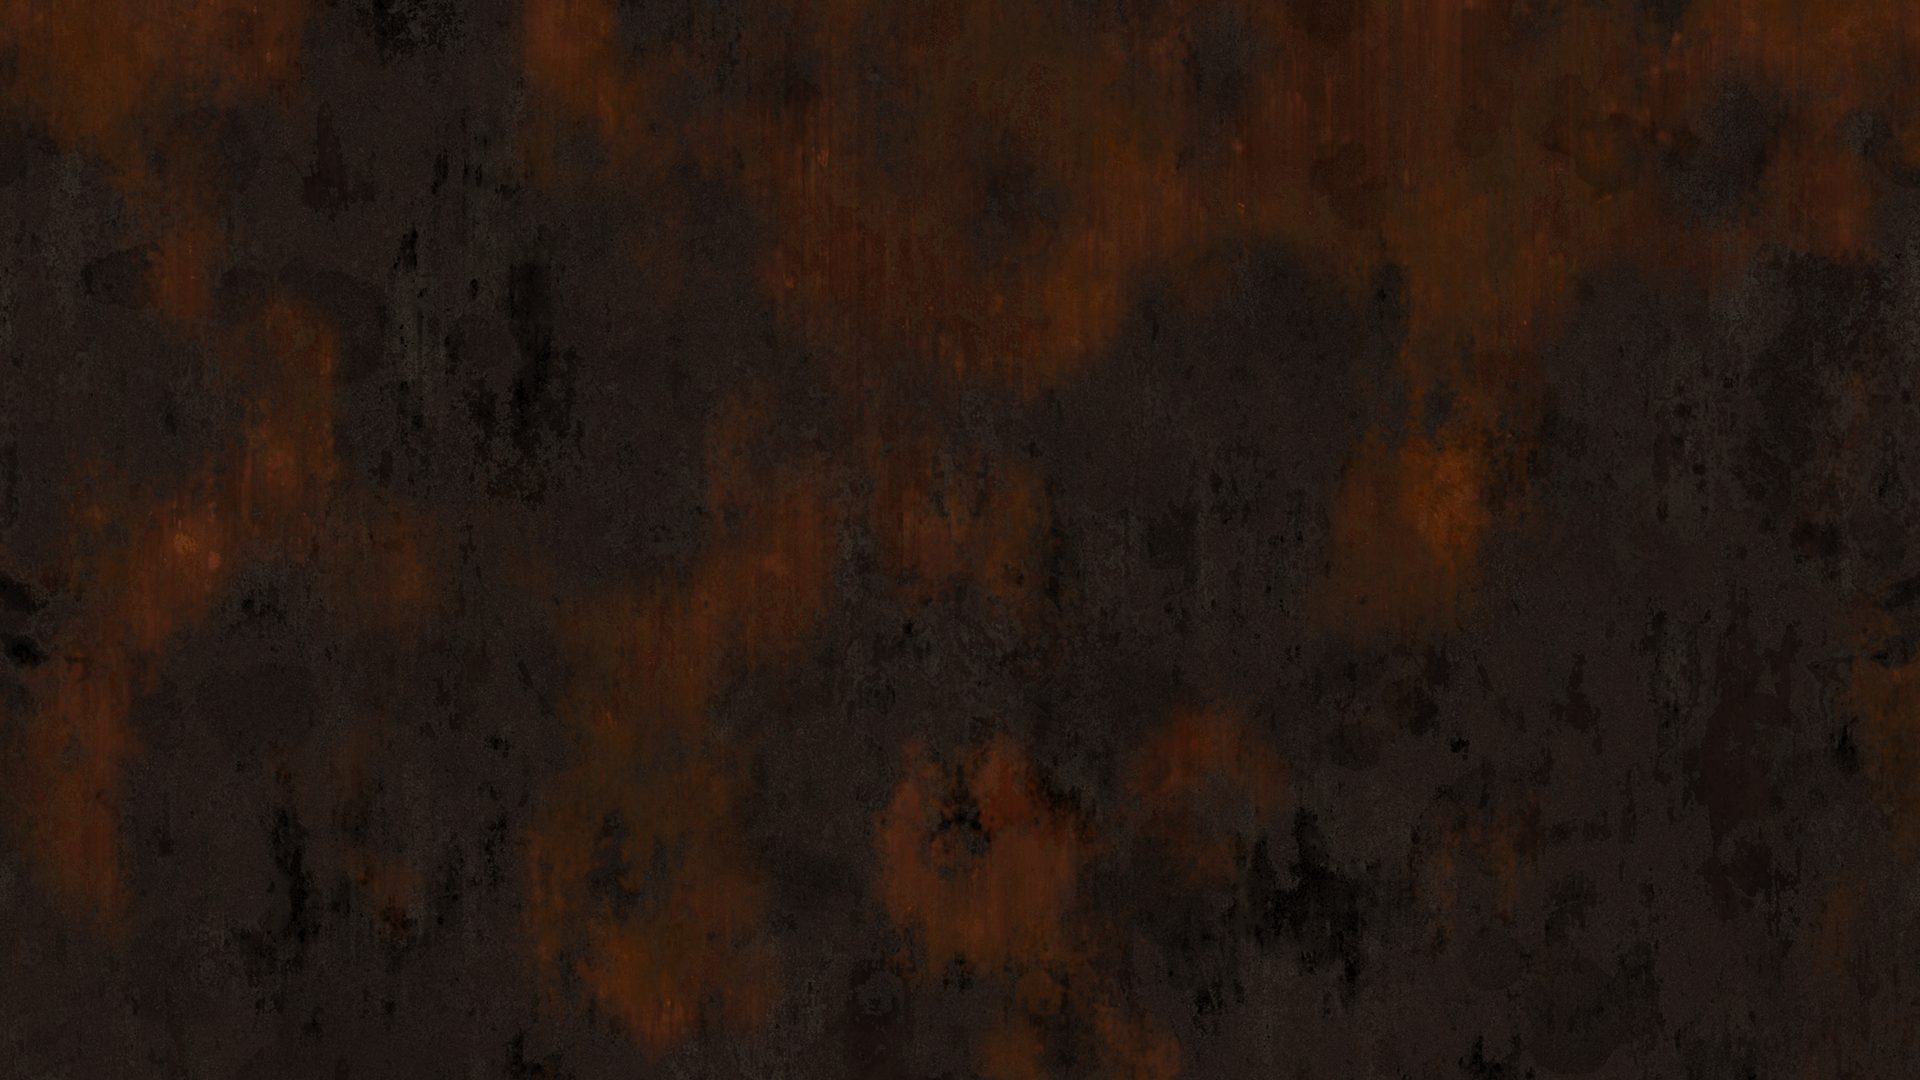
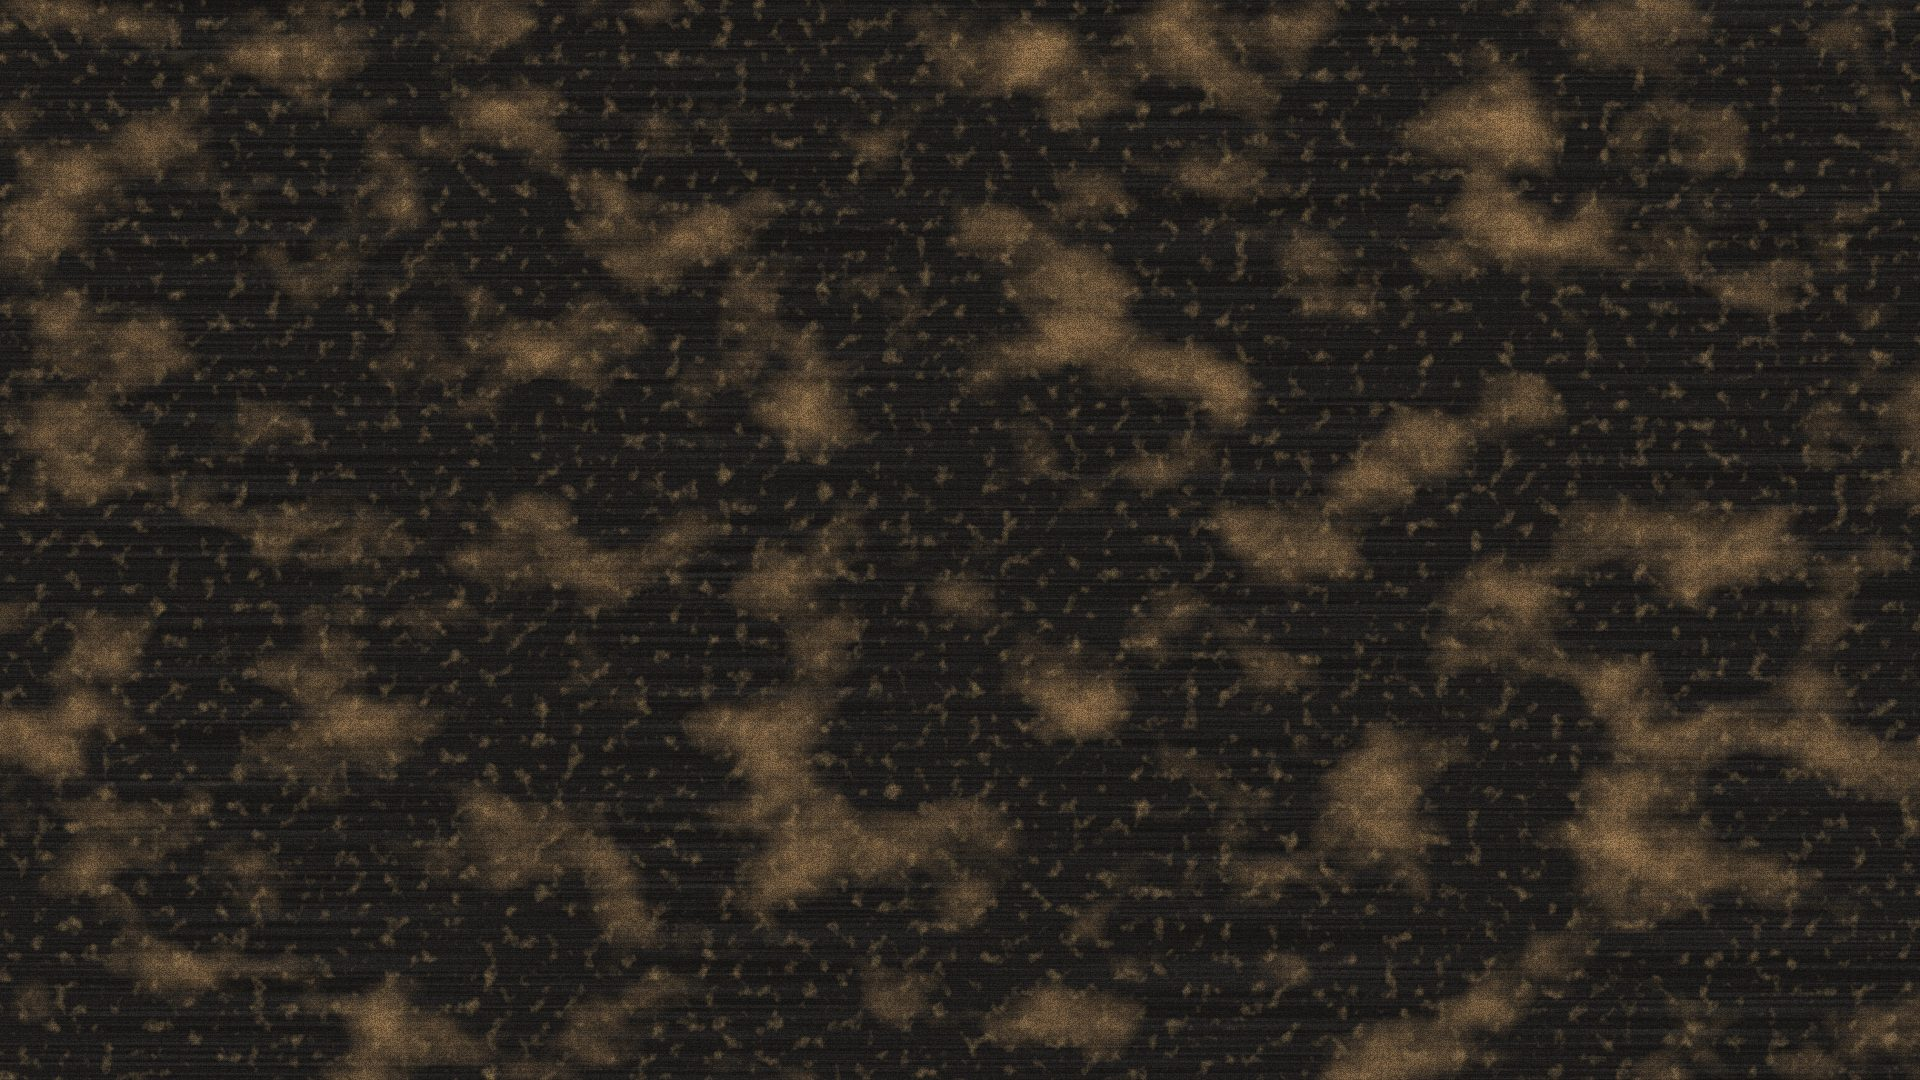
Warm noise rust background (baked), pipes connecting the clocks
Pipes are laid out from the clocks' live positions and redrawn on resize.

diff --git a/public/app.js b/public/app.js
@@ -150,7 +150,119 @@ function render() {
     return { el, row, set: clock(el), state: (now) => trackState(t, now) };
   });
   counters = [final, ...rows];
+  // pipes follow the clocks: redraw when anything resizes or fonts settle
+  pipeWatch.disconnect();
+  pipeWatch.observe(document.body);
+  counters.forEach((c) => pipeWatch.observe(c.el));
+  document.fonts.ready.then(queuePipes);
 }
+
+/* ---------- Pipes ----------
+   Laid out from the clocks' real positions: a trunk down each outer side
+   and one down the middle, a branch into every clock, a few runs leaving
+   the screen, with flanges, wall brackets and valve wheels. */
+
+const pipesSvg = $("#pipes");
+const PIPE = [["#120a04", 1], ["#4a2f17", 0.82], ["#7a5229", 0.52], ["#b88a52", 0.16]]; // edge -> highlight
+
+const pipe = (pts, w) => {
+  const d = "M" + pts.map((p) => p.join(" ")).join("L");
+  return PIPE.map(([c, k]) => `<path d="${d}" stroke="${c}" stroke-width="${w * k}"/>`).join("");
+};
+const bolt = (x, y, r) => `<circle cx="${x}" cy="${y}" r="${r}" fill="url(#pp-bolt)"/>`;
+// collar across the pipe; vertical=true for a pipe running up/down
+const flange = (x, y, w, vertical) => {
+  const a = w * 1.55, b = w * 0.42;
+  const [rw, rh] = vertical ? [a, b] : [b, a];
+  return `<rect x="${x - rw / 2}" y="${y - rh / 2}" width="${rw}" height="${rh}" rx="${w * 0.08}" fill="url(#pp-brass)" stroke="#140b04"/>`;
+};
+const tee = (x, y, w) =>
+  `<rect x="${x - w * 0.8}" y="${y - w * 0.8}" width="${w * 1.6}" height="${w * 1.6}" rx="${w * 0.25}" fill="url(#pp-brass)" stroke="#140b04"/>` +
+  bolt(x, y, w * 0.18);
+const bracket = (x, y, w) =>
+  `<rect x="${x - w * 1.25}" y="${y - w * 0.22}" width="${w * 2.5}" height="${w * 0.44}" fill="#24211f" stroke="#000"/>` +
+  bolt(x - w * 1.02, y, w * 0.13) + bolt(x + w * 1.02, y, w * 0.13);
+const valve = (x, y, w) => {
+  const r = w * 1.5;
+  const spokes = [0, 60, 120].map((a) => {
+    const c = Math.cos((a * Math.PI) / 180) * r, s = Math.sin((a * Math.PI) / 180) * r;
+    return `<line x1="${x - c}" y1="${y - s}" x2="${x + c}" y2="${y + s}"/>`;
+  }).join("");
+  return `<g stroke="#5c1f12" stroke-width="${w * 0.22}" stroke-linecap="round" fill="none">
+    <circle cx="${x}" cy="${y}" r="${r}"/>${spokes}</g>
+    <circle cx="${x}" cy="${y}" r="${r}" fill="none" stroke="rgba(255,190,150,.25)" stroke-width="${w * 0.06}"/>
+    <circle cx="${x}" cy="${y}" r="${w * 0.35}" fill="url(#pp-brass)" stroke="#140b04"/>`;
+};
+
+function drawPipes() {
+  const W = document.documentElement.clientWidth, H = document.documentElement.scrollHeight;
+  const sx0 = scrollX, sy0 = scrollY;
+  const rect = (el) => { const r = el.getBoundingClientRect(); return { l: r.left + sx0, r: r.right + sx0, t: r.top + sy0, b: r.bottom + sy0, h: r.height }; };
+  const board = rect($(".board"));
+  const cs = counters.map((c) => rect(c.el)); // [final, 1..6]
+  if (cs.length < 7) return;
+  const w = Math.max(7, cs[1].h * 0.15), wt = Math.max(9, cs[1].h * 0.21);
+  const y = (r) => r.t + r.h * 0.42;
+  const cx = board.l + (board.r - board.l) / 2;
+  const twoCols = cs[1].r < cx && cs[4].l > cx;
+
+  let pipes = "", fit = "";
+  for (const side of ["l", "r"]) {
+    // clocks that connect to this side's trunk
+    const mine = cs.map((r, i) => [r, i]).filter(([r, i]) => i === 0 || !twoCols || (side === "l" ? r.r < cx : r.l > cx));
+    const edge = side === "l" ? Math.min(...mine.map(([r]) => r.l)) : Math.max(...mine.map(([r]) => r.r));
+    const room = side === "l" ? edge - board.l : board.r - edge;
+    if (room < wt * 2.2) continue;
+    const x = side === "l" ? board.l + room * 0.45 : board.r - room * 0.45;
+    pipes += pipe([[x, -40], [x, H + 40]], wt);
+    const ys = [];
+    for (const [r, i] of mine) {
+      const yy = y(r), end = side === "l" ? r.l : r.r;
+      // some branches run straight through the trunk and off the screen
+      const off = (side === "l" ? [0, 2] : [0, 6]).includes(i);
+      pipes += pipe([[off ? (side === "l" ? -40 : W + 40) : x, yy], [end, yy]], w);
+      fit += tee(x, yy, wt) + flange(end + (side === "l" ? -w * 0.3 : w * 0.3), yy, w, false);
+      ys.push(yy);
+    }
+    for (let by = H * 0.08; by < H; by += H * 0.17) {
+      if (ys.every((yy) => Math.abs(yy - by) > wt * 2.5)) fit += bracket(x, by, wt);
+    }
+    if (side === "l" && ys.length > 2) fit += valve(x, (ys[1] + ys[2]) / 2, wt);
+  }
+
+  if (twoCols) {
+    // middle trunk from the final clock down off the screen, feeding rows 1 and 2
+    const top = cs[0].b;
+    pipes += pipe([[cx, top], [cx, H + 40]], w);
+    fit += flange(cx, top + w * 0.3, w, true);
+    for (const [a, b] of [[1, 4], [2, 5]]) {
+      const ya = y(cs[a]), yb = y(cs[b]);
+      pipes += pipe([[cs[a].r, ya], [cx, ya]], w) + pipe([[cx, yb], [cs[b].l, yb]], w);
+      fit += flange(cs[a].r + w * 0.3, ya, w, false) + flange(cs[b].l - w * 0.3, yb, w, false) + tee(cx, ya, w);
+    }
+    fit += valve(cx, (top + y(cs[1])) / 2, w * 0.9);
+  }
+
+  pipesSvg.setAttribute("width", W);
+  pipesSvg.setAttribute("height", H);
+  pipesSvg.innerHTML = `
+    <defs>
+      <linearGradient id="pp-brass" x1="0" y1="0" x2="1" y2="1">
+        <stop offset="0" stop-color="#a27a44"/><stop offset=".45" stop-color="#5c4020"/><stop offset="1" stop-color="#2a1a0a"/>
+      </linearGradient>
+      <radialGradient id="pp-bolt" cx=".35" cy=".35"><stop offset="0" stop-color="#b8b0a4"/><stop offset=".5" stop-color="#4c4640"/><stop offset="1" stop-color="#151311"/></radialGradient>
+      <filter id="pp-shadow" x="-5%" y="-5%" width="110%" height="110%"><feDropShadow dx="3" dy="5" stdDeviation="3" flood-opacity=".75"/></filter>
+    </defs>
+    <g filter="url(#pp-shadow)" fill="none" stroke-linejoin="round">${pipes}${fit}</g>`;
+}
+
+let pipesQueued = false;
+function queuePipes() {
+  if (pipesQueued) return;
+  pipesQueued = true;
+  requestAnimationFrame(() => { pipesQueued = false; drawPipes(); });
+}
+const pipeWatch = new ResizeObserver(queuePipes);
 
 /* ---------- Steam ----------
    Billowing puffs drifting up over the whole page, plus the odd burst of a

diff --git a/public/style.css b/public/style.css
@@ -47,6 +47,16 @@ body::after {
   mix-blend-mode: overlay;
 }
 
+/* pipes run over the board and frame, under the steam */
+#pipes {
+  position: absolute;
+  top: 0;
+  left: 0;
+  z-index: 1;
+  pointer-events: none;
+  overflow: visible;
+}
+
 #steam {
   position: fixed;
   inset: 0;

diff --git a/public/index.html b/public/index.html
@@ -23,6 +23,7 @@
     </div>
   </main>
 
+  <svg id="pipes" aria-hidden="true"></svg>
   <canvas id="steam" aria-hidden="true"></canvas>
 
   <dialog id="settings">
